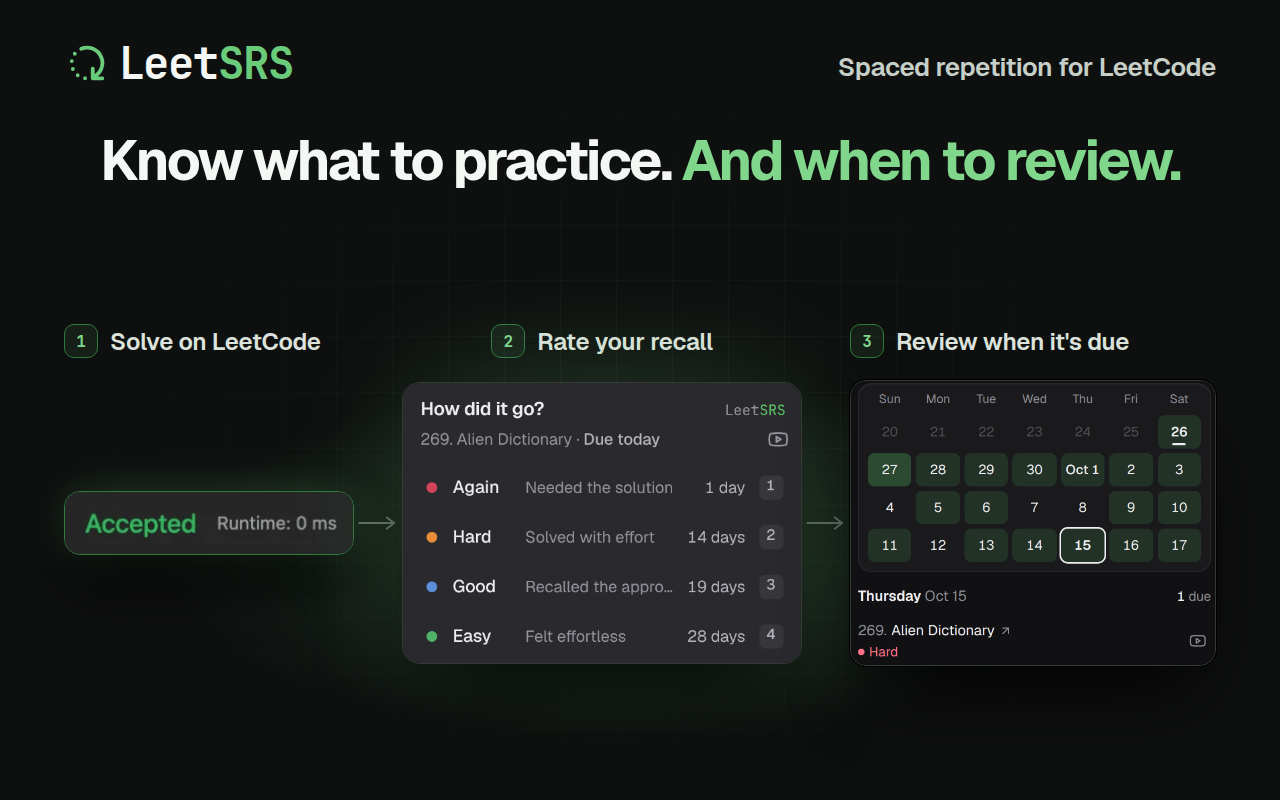
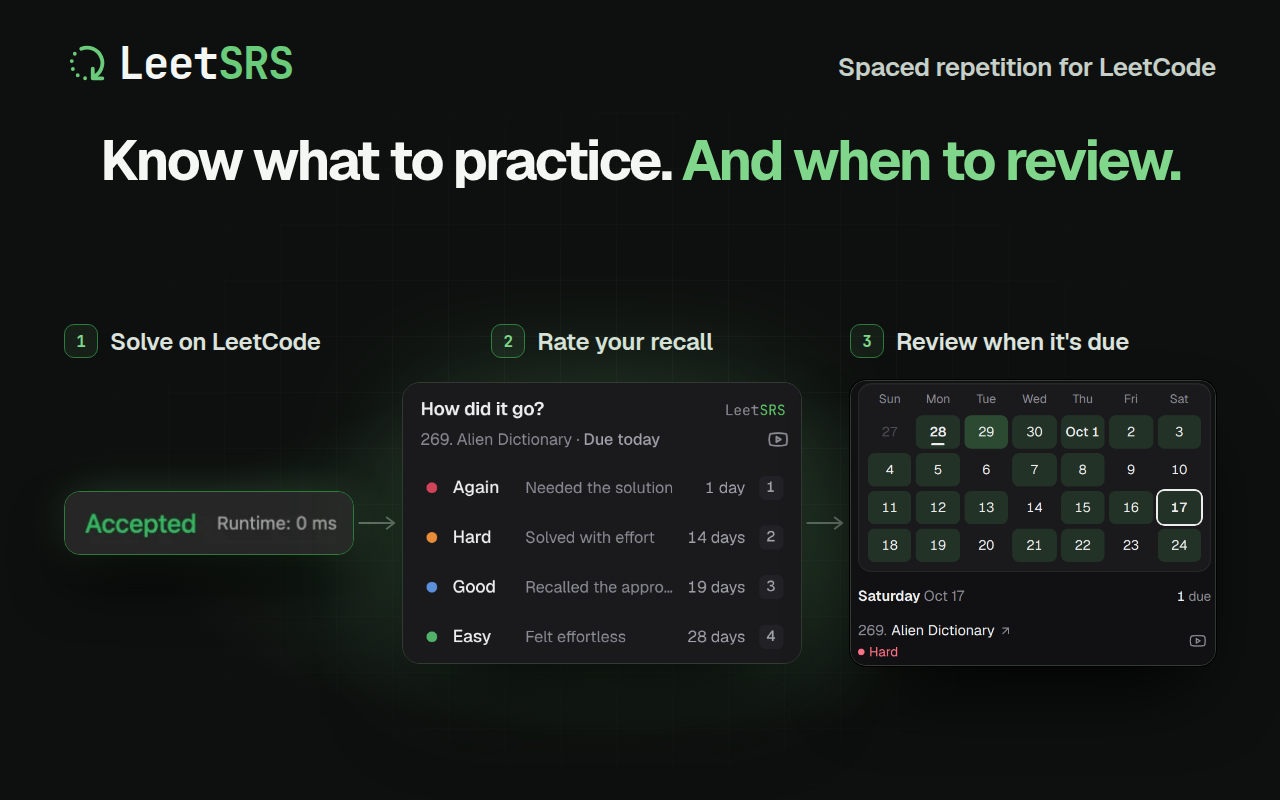
docs: refresh README image and drop duplicate promo assets (#735)
* docs: refresh README and promo images for the design tokens

* docs: keep only the README images in assets/promo

---------

diff --git a/assets/promo/README.md b/assets/promo/README.md
@@ -1,23 +1,11 @@
-# LeetSRS promo assets
+# LeetSRS README images
 
-Promotional images, logos, and social cards for LeetSRS. Sources and the render script live in the [LeetLanding repository](https://github.com/mattcdrake/LeetLanding/tree/main/assets/cws/v2.0); copy approved renders here.
+The images the repository README shows. Their sources, the render script, and all other promo assets (store screenshots, marquee, logos, and social previews) live in the [LeetLanding repository](https://github.com/mattcdrake/LeetLanding/tree/main/assets/promo); copy updated renders of these three files here.
 
-| Asset                                              | Size       |
-| -------------------------------------------------- | ---------- |
-| [1. Hero](01-hero.png)                             | 1280 × 800 |
-| [2. Solve, rate, review](02-loop.png)              | 1280 × 800 |
-| [3. Review queue](03-review-queue.png)             | 1280 × 800 |
-| [4. Roadmaps](04-roadmaps.png)                     | 1280 × 800 |
-| [5. Calendar](05-calendar.png)                     | 1280 × 800 |
-| [Small promo](small-promo.png)                     | 440 × 280  |
-| [Marquee](marquee.png)                             | 1400 × 560 |
-| [README banner](readme-banner.png)                 | 1600 × 480 |
-| [Chrome install button](add-to-chrome.png)         | 584 × 104  |
-| [GitHub social preview](social/github-preview.png) | 1280 × 640 |
+| Image                                      | Size       |
+| ------------------------------------------ | ---------- |
+| [README banner](readme-banner.png)         | 1600 × 480 |
+| [Chrome install button](add-to-chrome.png) | 584 × 104  |
+| [Solve, rate, review](02-loop.png)         | 1280 × 800 |
 
-The five Chrome Web Store screenshots are numbered in listing order. Each has a 640 × 400 `*-preview.png` for checking legibility at store preview size. Store images are RGB PNGs without transparency.
-
-The README banner displays at 800 pixels wide and the install button at 292 × 52; both are 2× PNGs with transparent rounded corners. The GitHub social preview is uploaded in the repository settings.
-
-- `logos/`: SVG source and PNG icons at 16, 32, 48, 60, 96, and 128 pixels.
-- `social/`: the 1200 × 630 website sharing preview and the 1280 × 640 GitHub preview.
+The banner displays at 800 pixels wide and the install button at 292 × 52; both are 2× PNGs with transparent rounded corners.

diff --git a/README.md b/README.md
@@ -11,7 +11,7 @@ LeetSRS is a Chrome extension that helps you remember what you learn on LeetCode
 </p>
 
 <p align="center">
-  <img src="assets/promo/02-loop.png" width="800" alt="Solve on LeetCode, rate your recall in the LeetSRS panel, and review when it's due: rating Alien Dictionary Good schedules it for Thursday, October 15." />
+  <img src="assets/promo/02-loop.png" width="800" alt="Solve on LeetCode, rate your recall in the LeetSRS panel, and review when it's due: rating Alien Dictionary Good schedules it for Saturday, October 17." />
 </p>
 
 ## Get started
